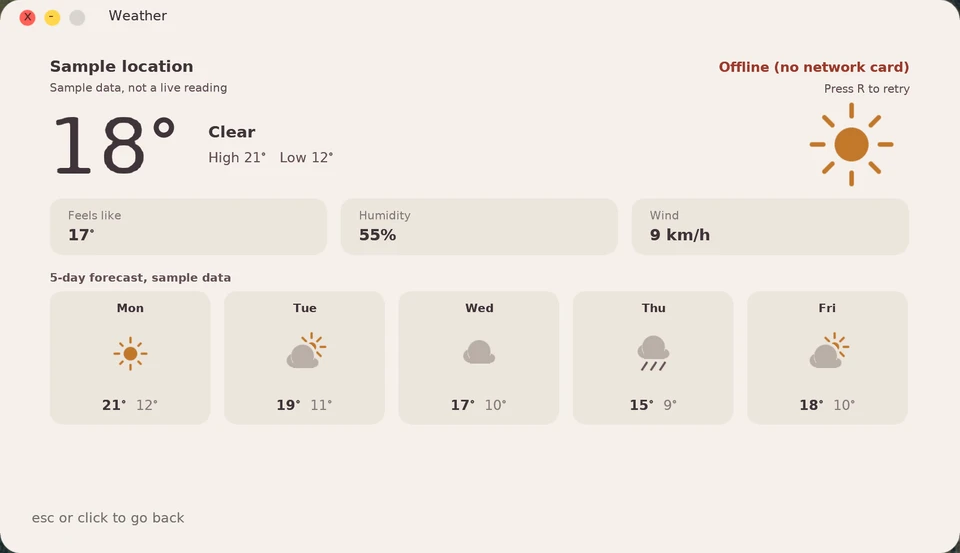
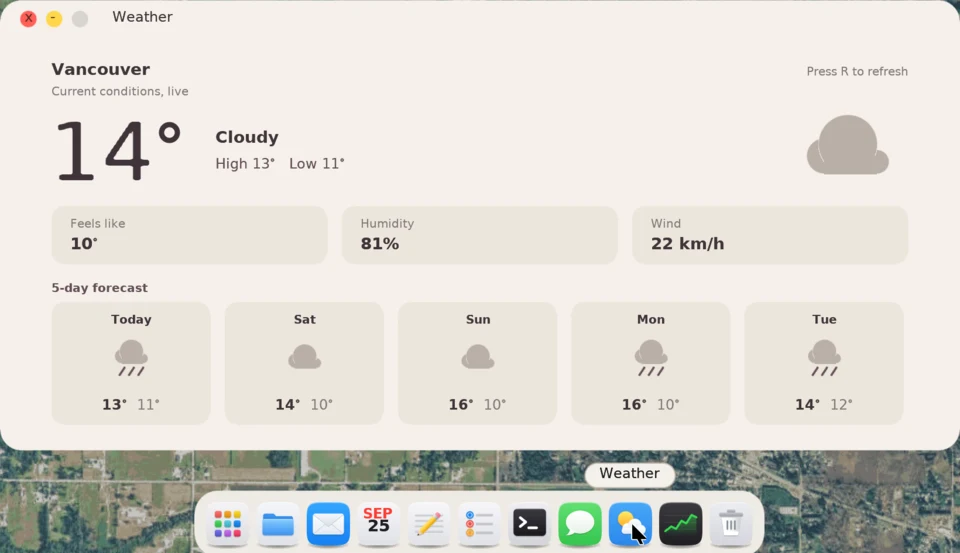
1.5.16: Stocks and Weather landing shots from the live demo
Real quotes and real weather instead of an offline capture.

Claude-Session: https://claude.ai/code/session_01CaiUTqFcDgfy9HconXDg4u

diff --git a/landing/index.html b/landing/index.html
@@ -401,7 +401,7 @@
   <div class="facts-row">
     <div class="fact"><strong><span data-fact="apps">25</span></strong><span class="label">Apps</span></div>
     <div class="fact"><a class="fact-link" href="https://github.com/nulljosh/joshuatree/blob/main/docs/ARCHITECTURE.md"><strong><span data-fact="documented">100</span>%</strong><span class="label">Documented</span></a></div>
-    <div class="fact"><strong>v<span data-fact="version">1.5.15</span></strong><span class="label">Version</span></div>
+    <div class="fact"><strong>v<span data-fact="version">1.5.16</span></strong><span class="label">Version</span></div>
   </div>
   <div class="boot-cta">
     <a class="boot-btn" href="https://github.com/nulljosh/joshuatree/releases">Download for a USB stick</a>
@@ -433,7 +433,7 @@
       <p>Calendar. See your days and your plans at a glance.</p>
     </div>
     <div class="tile">
-      <img src="shots/app-weather.webp" alt="Weather app showing today's forecast" loading="lazy" width="480" height="276">
+      <img src="shots/app-weather.webp" alt="Weather app showing live current conditions and a 5-day forecast" loading="lazy" width="480" height="276">
       <p>Weather. Know what to wear before you walk out.</p>
     </div>
     <div class="tile">
@@ -445,7 +445,7 @@
       <p>Terminal. Type a command and it answers back.</p>
     </div>
     <div class="tile">
-      <img src="shots/app-stocks.webp" alt="Stocks app showing a watchlist" loading="lazy" width="480" height="276">
+      <img src="shots/app-stocks.webp" alt="Stocks app showing live quotes and an intraday chart" loading="lazy" width="480" height="276">
       <p>Stocks. Keep an eye on a watchlist without leaving the desktop.</p>
     </div>
   </div>
